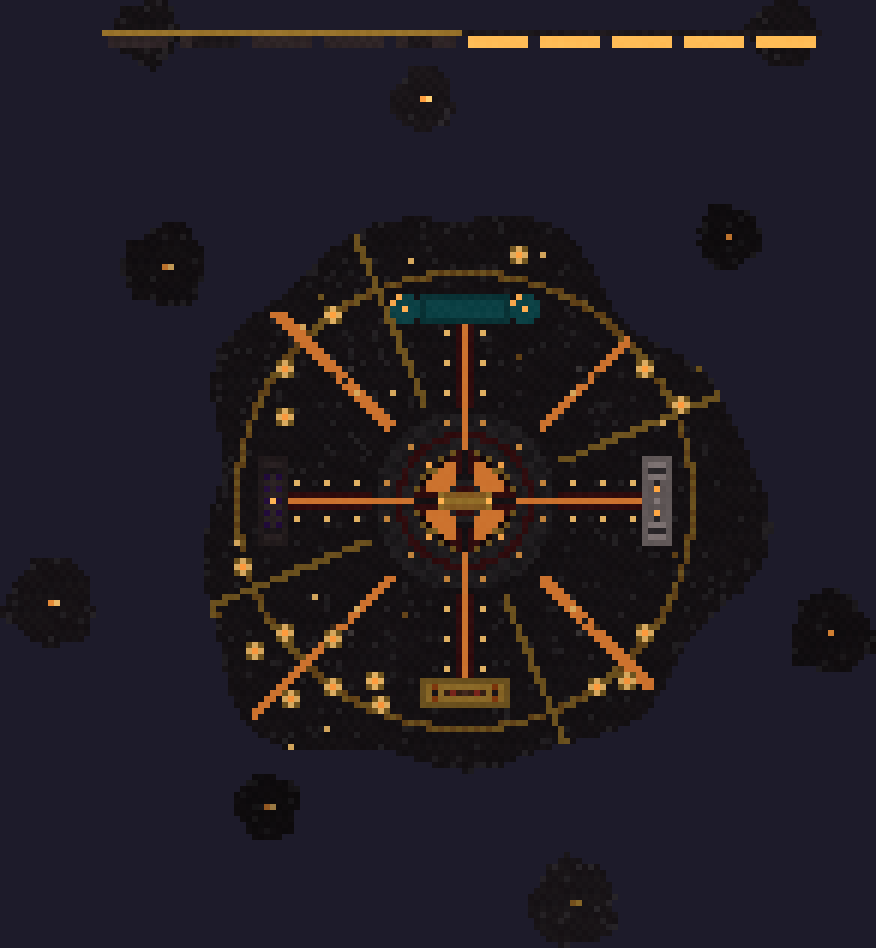
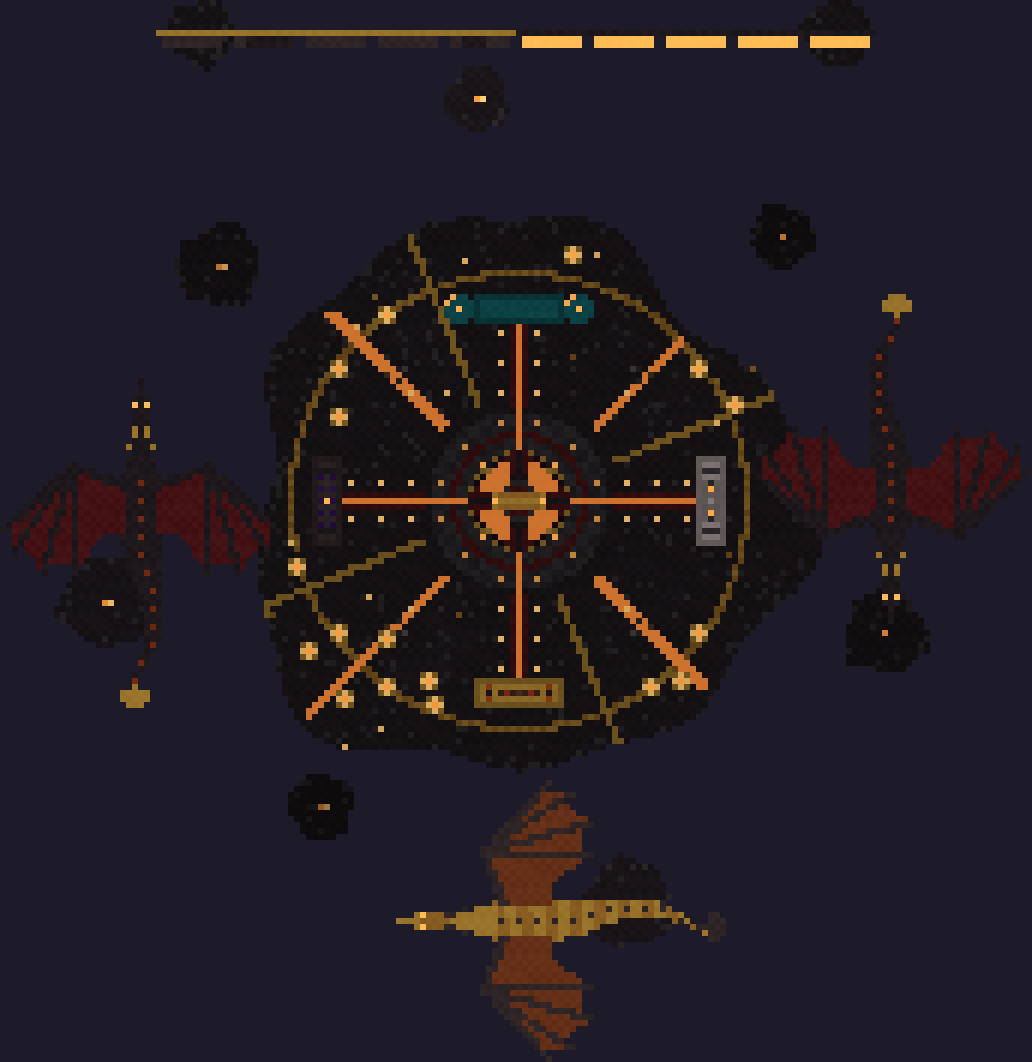
Add three fire-breathing dragon statues to the hub sky
Two blackstone dragons and a gold one glide around the island (east, south
and west, clear of the BLACKFORGE sign). They are sculpted from a smooth
shape so they look right at any heading, and take turns breathing a cone of
fire (flames, glowing dust, smoke, blaze/growl sounds) every 11 seconds.
An existing hub gets them pasted in once (hub-dragons-v1 marker).

diff --git a/plugins-src/AlloyCore/src/main/java/net/alloymc/core/hub/Dragons.java b/plugins-src/AlloyCore/src/main/java/net/alloymc/core/hub/Dragons.java
@@ -1,0 +1,198 @@
+package net.alloymc.core.hub;
+
+import net.alloymc.core.build.Canvas;
+
+import java.util.List;
+
+import static net.alloymc.core.hub.HubLayout.Y;
+
+/**
+ * Three dragon statues gliding in the sky around the hub, sculpted from a smooth shape so they look right at any heading.
+ * The blocks are part of {@link HubBuilder}; the fire they breathe is particles played by {@link HubModule}.
+ *
+ * Shapes are written in dragon space: u points forward (towards the snout), v up, w out to the dragon's right.
+ */
+public final class Dragons {
+    private Dragons() {}
+
+    /** A dragon statue: body origin, heading in degrees (0 = +X, 90 = +Z) and whether it is cast in gold. */
+    public record Dragon(double ox, double oy, double oz, double heading, boolean gold) {
+        double cos() { return Math.cos(Math.toRadians(heading)); }
+        double sin() { return Math.sin(Math.toRadians(heading)); }
+
+        /** World position of the open mouth, where the fire comes from. */
+        public double[] mouth() { return toWorld(MOUTH_U, MOUTH_V, 0); }
+
+        /** Unit direction of the fire: straight ahead and angled down. */
+        public double[] breath() {
+            double p = Math.toRadians(BREATH_PITCH);
+            return new double[]{cos() * Math.cos(p), -Math.sin(p), sin() * Math.cos(p)};
+        }
+
+        double[] toWorld(double u, double v, double w) {
+            return new double[]{ox + u * cos() - w * sin(), oy + v, oz + u * sin() + w * cos()};
+        }
+    }
+
+    /** Circling the island anticlockwise, side-on to spawn, clear of the BLACKFORGE sign in the north. */
+    public static final List<Dragon> ALL = List.of(
+            new Dragon(62.5, Y + 27, 0.5, 90, false),      // east, flying south
+            new Dragon(0.5, Y + 34, 70.5, 180, true),      // south, over the arcade gate, flying west
+            new Dragon(-62.5, Y + 25, 0.5, 270, false));   // west, flying north
+
+    static final double MOUTH_U = 19.5, MOUTH_V = 4.8, BREATH_PITCH = 24;
+
+    /** Just the dragons, for pasting into a hub that was built before they existed. */
+    public static Canvas build() {
+        Canvas c = new Canvas();
+        addTo(c);
+        return c;
+    }
+
+    static void addTo(Canvas c) {
+        for (Dragon d : ALL) sculpt(c, d);
+    }
+
+    private static void sculpt(Canvas c, Dragon d) {
+        int r = 42;
+        int bx = (int) Math.floor(d.ox), bz = (int) Math.floor(d.oz), by = (int) Math.floor(d.oy);
+        for (int x = bx - r; x <= bx + r; x++)
+            for (int z = bz - r; z <= bz + r; z++) {
+                double px = x + 0.5 - d.ox, pz = z + 0.5 - d.oz;
+                double u = px * d.cos() + pz * d.sin(), w = -px * d.sin() + pz * d.cos();
+                if (u < -34 || u > 22 || Math.abs(w) > 24) continue;
+                for (int y = by - 9; y <= by + 16; y++) {
+                    String b = block(u, y + 0.5 - d.oy, w, d.gold);
+                    if (b != null && !c.isSet(x, y, z)) c.set(x, y, z, b);
+                }
+            }
+    }
+
+    // ------------------------------------------------------------------ shape
+
+    private static String block(double u, double v, double w, boolean gold) {
+        String hide = gold ? "minecraft:gold_block" : "minecraft:polished_blackstone";
+        String hide2 = gold ? "minecraft:raw_gold_block" : "minecraft:blackstone";
+        String belly = gold ? "minecraft:yellow_terracotta" : "minecraft:gilded_blackstone";
+        String bone = gold ? "minecraft:netherite_block" : "minecraft:polished_blackstone_bricks";
+        String skin = gold ? "minecraft:orange_terracotta" : "minecraft:red_nether_bricks";
+        String horn = gold ? "minecraft:netherite_block" : "minecraft:gold_block";
+        String ridge = gold ? "minecraft:netherite_block" : "minecraft:magma_block";
+
+        // eyes and the fire glowing in the open mouth
+        if (dist(u, v, Math.abs(w), 15.6, 6.9, 1.35) < 0.75) return "minecraft:shroomlight";
+        if (dist(u, v, w, 17.2, 5.0, 0) < 0.8) return "minecraft:shroomlight";
+
+        // head, snout, open jaw, horns
+        if (ell(u - 14, v - 6.2, w, 2.8, 1.9, 1.7)) return v > 7.3 ? hide2 : hide;
+        if (capsule(u, v, w, 15, 6.4, 0, 19.8, 5.9, 0, 1.25, 0.85)) return hide;
+        if (capsule(u, v, w, 14.4, 5.0, 0, 19.2, 3.7, 0, 0.85, 0.6)) return belly;
+        if (capsule(u, v, Math.abs(w), 13, 7.4, 1.0, 9.0, 9.6, 1.9, 0.6, 0.3)) return horn;
+
+        // neck
+        if (capsule(u, v, w, 4.5, 1.2, 0, 12.5, 5.6, 0, 2.2, 1.6)) return hide;
+
+        // legs tucked under, gold-tipped claws
+        double aw = Math.abs(w);
+        if (capsule(u, v, aw, 2, -1.2, 2.2, 4.5, -3.8, 2.5, 0.95, 0.7)) return hide2;
+        if (capsule(u, v, aw, 4.5, -3.8, 2.5, 6, -4.3, 2.5, 0.55, 0.4)) return horn;
+        if (capsule(u, v, aw, -6, -1.0, 2.5, -4, -4.5, 2.8, 1.15, 0.85)) return hide2;
+        if (capsule(u, v, aw, -4, -4.5, 2.8, -0.5, -5.4, 2.8, 0.8, 0.55)) return hide2;
+        if (capsule(u, v, aw, -0.5, -5.4, 2.8, 1.2, -5.6, 2.8, 0.5, 0.4)) return horn;
+
+        // body and tail along a swaying spine, with a ridge of spikes and a spade on the tail
+        if (u >= -31 && u <= 6) {
+            double cv = spineV(u), cw = spineW(u), rad = radius(u);
+            double dv = v - cv, dw = w - cw;
+            if (dv * dv + dw * dw <= rad * rad) return dv < -rad * 0.45 ? belly : ((int) Math.floor(u * 0.5) % 2 == 0 ? hide : hide2);
+            if (Math.abs(dw) < 0.55 && dv > rad - 0.4 && dv < rad + 0.6 + rad * 0.3 && Math.floorMod((int) Math.floor(u), 3) == 0) return ridge;
+        }
+        if (u < -29.5 && u > -35) {
+            double t = (u + 35) / 5.5;                       // 0 at the spade tip, 1 where it meets the tail
+            double half = 2.6 * Math.sin(Math.PI * Math.min(1, t * 1.15)) * (t < 0.85 ? 1 : (1 - t) / 0.15);
+            if (Math.abs(w - spineW(-30)) <= half && Math.abs(v - spineV(-30)) <= 0.55) return horn;
+        }
+
+        // wings
+        double a = aw - 2.4;
+        if (a >= 0 && a <= 21) {
+            double vw = wingV(a), le = leadingEdge(a);
+            if (u <= le + 0.3 && u >= le - 1.3 && Math.abs(v - vw) <= 1.0) return bone;                  // arm along the front
+            if (Math.abs(v - vw) <= 0.6) {
+                for (double[] f : FINGERS)
+                    if (segDist(a, u, WRIST_A, leadingEdge(WRIST_A), f[0], f[1]) < 0.62) return bone;    // fingers
+                if (u <= le && u >= trailingEdge(a)) return skin;                                         // membrane
+            }
+        }
+        return null;
+    }
+
+    private static double spineV(double u) {
+        if (u >= -4) return 0.15 * (u + 4) * 0.2;
+        double t = (-4 - u) / 27;                           // 0 at the hips, 1 at the tail tip
+        return -4.2 * Math.sin(Math.PI * 0.6 * t) + 2.4 * t * t;
+    }
+
+    private static double spineW(double u) {
+        if (u >= -6) return 0;
+        double t = (-6 - u) / 25;
+        return 4.5 * Math.sin(Math.PI * 1.15 * t) * t;
+    }
+
+    private static double radius(double u) {
+        if (u > 3) return 3.1 - (u - 3) * 0.3;
+        if (u >= -7) return 3.2;
+        double t = (u + 31) / 24;                           // 0 at the tail tip, 1 at the hips
+        return 0.55 + 2.65 * Math.pow(Math.max(0, t), 1.25);
+    }
+
+    private static final double WRIST_A = 9;
+    /** Finger tips in (out from the shoulder, along the body), the scalloped back edge runs between them. */
+    private static final double[][] FINGERS = {{8.5, -12}, {14, -12.5}, {18.8, -8.5}};
+    private static final double[][] TRAILING = {{0, -5}, {8.5, -12}, {14, -12.5}, {18.8, -8.5}, {21, -3.6}};
+
+    private static double wingV(double a) {
+        return 2.0 + a * 0.24 + (a > WRIST_A ? (a - WRIST_A) * 0.22 : 0);
+    }
+
+    private static double leadingEdge(double a) {
+        return a < WRIST_A ? 3 + a * 0.35 : 3 + WRIST_A * 0.35 - (a - WRIST_A) * 0.92;
+    }
+
+    private static double trailingEdge(double a) {
+        for (int i = 0; i + 1 < TRAILING.length; i++) {
+            double[] p = TRAILING[i], q = TRAILING[i + 1];
+            if (a >= p[0] && a <= q[0]) {
+                double t = (a - p[0]) / (q[0] - p[0]);
+                return p[1] + (q[1] - p[1]) * t + 2.2 * Math.sin(Math.PI * t);   // each scallop bows towards the arm
+            }
+        }
+        return Double.MAX_VALUE;
+    }
+
+    // ------------------------------------------------------------------ geometry
+
+    private static double dist(double u, double v, double w, double cu, double cv, double cw) {
+        return Math.sqrt((u - cu) * (u - cu) + (v - cv) * (v - cv) + (w - cw) * (w - cw));
+    }
+
+    private static boolean ell(double du, double dv, double dw, double ru, double rv, double rw) {
+        return du * du / (ru * ru) + dv * dv / (rv * rv) + dw * dw / (rw * rw) <= 1;
+    }
+
+    /** Tapered capsule from a (radius ra) to b (radius rb). */
+    private static boolean capsule(double u, double v, double w, double au, double av, double aw,
+                                   double bu, double bv, double bw, double ra, double rb) {
+        double eu = bu - au, ev = bv - av, ew = bw - aw;
+        double t = ((u - au) * eu + (v - av) * ev + (w - aw) * ew) / (eu * eu + ev * ev + ew * ew);
+        t = Math.max(0, Math.min(1, t));
+        double r = ra + (rb - ra) * t;
+        return dist(u, v, w, au + eu * t, av + ev * t, aw + ew * t) <= r;
+    }
+
+    private static double segDist(double x, double y, double ax, double ay, double bx, double by) {
+        double ex = bx - ax, ey = by - ay;
+        double t = Math.max(0, Math.min(1, ((x - ax) * ex + (y - ay) * ey) / (ex * ex + ey * ey)));
+        return Math.hypot(x - ax - ex * t, y - ay - ey * t);
+    }
+}

diff --git a/plugins-src/AlloyCore/src/main/java/net/alloymc/core/hub/HubModule.java b/plugins-src/AlloyCore/src/main/java/net/alloymc/core/hub/HubModule.java
@@ -58,10 +58,14 @@ public final class HubModule implements Listener {
         // keep the whole hub loaded: holograms survive, lava keeps flowing, first joins are instant
         for (int cx = -6; cx <= 5; cx++) for (int cz = -6; cz <= 5; cz++) world.addPluginChunkTicket(cx, cz, plugin);
         if (!new File(plugin.getDataFolder(), "hub-built").exists()) build(Bukkit.getConsoleSender());
-        else if (!new File(plugin.getDataFolder(), "hub-biome-v1").exists()) applyBiome();
+        else {
+            if (!new File(plugin.getDataFolder(), "hub-biome-v1").exists()) applyBiome();
+            if (!new File(plugin.getDataFolder(), "hub-dragons-v1").exists()) addDragons();
+        }
         Bukkit.getScheduler().runTaskLater(plugin, this::spawnHolograms, 40L);
         Bukkit.getScheduler().runTaskTimer(plugin, this::refresh, 60L, 40L);
         Bukkit.getScheduler().runTaskTimer(plugin, this::ambient, 20L, 10L);
+        Bukkit.getScheduler().runTaskTimer(plugin, this::dragonFire, 40L, 2L);
     }
 
     private void registerJoinCommand() {
@@ -102,6 +106,7 @@ public final class HubModule implements Listener {
     private void pasteHub(CommandSender who, net.alloymc.core.build.Canvas canvas, long t) {
         Paster.paste(plugin, world, canvas, 6000, () -> {
             try { new File(plugin.getDataFolder(), "hub-built").createNewFile(); } catch (Exception ignored) { }
+            try { new File(plugin.getDataFolder(), "hub-dragons-v1").createNewFile(); } catch (Exception ignored) { }
             applyBiome();
             who.sendMessage(Component.text("Hub built: " + canvas.size() + " blocks in " + (System.currentTimeMillis() - t) / 1000 + "s"));
             for (Player p : Bukkit.getOnlinePlayers()) toSpawn(p);
@@ -364,5 +369,57 @@ public final class HubModule implements Listener {
         }
         for (HubLayout.Gate g : HubLayout.GATES)
             world.spawnParticle(Particle.PORTAL, g.cx() + 0.5, HubLayout.Y + 5, g.cz() + 0.5, 10, g.alongX() ? 2 : 0.3, 2.5, g.alongX() ? 0.3 : 2, 0.2);
+    }
+
+    // ------------------------------------------------------------------ dragons
+
+    /** Pastes the sky dragons into a hub that was built before they were added. */
+    private void addDragons() {
+        Paster.paste(plugin, world, Dragons.build(), 6000, () -> {
+            try { new File(plugin.getDataFolder(), "hub-dragons-v1").createNewFile(); } catch (Exception ignored) { }
+            plugin.getLogger().info("Hub dragons added");
+        });
+    }
+
+    private static final int BREATH_PERIOD = 220, BREATH_LENGTH = 60;
+    private static final Particle.DustTransition[] FIRE_DUST = {
+            new Particle.DustTransition(Color.fromRGB(255, 240, 120), Color.fromRGB(255, 120, 20), 3.2f),
+            new Particle.DustTransition(Color.fromRGB(255, 150, 30), Color.fromRGB(200, 30, 10), 3.8f)};
+    private int fireTick;
+
+    /** Each dragon breathes a cone of fire for 3 seconds out of every 11, staggered so they take turns. */
+    private void dragonFire() {
+        fireTick += 2;
+        if (world.getPlayers().isEmpty()) return;
+        for (int i = 0; i < Dragons.ALL.size(); i++) {
+            Dragons.Dragon d = Dragons.ALL.get(i);
+            int t = Math.floorMod(fireTick - i * BREATH_PERIOD / Dragons.ALL.size(), BREATH_PERIOD);
+            if (t >= BREATH_LENGTH) continue;
+            double[] m = d.mouth(), f = d.breath();
+            if (t == 0) {
+                world.playSound(new Location(world, m[0], m[1], m[2]), Sound.ENTITY_BLAZE_SHOOT, 4f, 0.5f);
+                if ((fireTick / BREATH_PERIOD + i) % 3 == 0)
+                    world.playSound(new Location(world, m[0], m[1], m[2]), Sound.ENTITY_ENDER_DRAGON_GROWL, 3f, 0.9f);
+            } else if (t % 10 == 0) {
+                world.playSound(new Location(world, m[0], m[1], m[2]), Sound.ITEM_FIRECHARGE_USE, 3f, 0.6f);
+            }
+            double ramp = Math.min(1, Math.min(t, BREATH_LENGTH - t) / 10.0);   // flare up, then die down
+            // fast flames streaming out of the mouth
+            for (int k = 0; k < 10 * ramp + 2; k++) {
+                double dx = f[0] + (Math.random() - 0.5) * 0.25, dy = f[1] + (Math.random() - 0.5) * 0.25, dz = f[2] + (Math.random() - 0.5) * 0.25;
+                world.spawnParticle(Particle.FLAME, m[0], m[1], m[2], 0, dx, dy, dz, 0.55 + Math.random() * 0.35, null, true);
+            }
+            // a glowing cone of fire that widens away from the mouth, so it reads from across the island
+            for (int k = 0; k < 14 * ramp; k++) {
+                double s = Math.random() * 11 * ramp, spread = 0.3 + s * 0.22;
+                world.spawnParticle(Particle.DUST_COLOR_TRANSITION, m[0] + f[0] * s, m[1] + f[1] * s, m[2] + f[2] * s, 1,
+                        spread, spread, spread, 0, FIRE_DUST[s < 4 ? 0 : 1], true);
+            }
+            if (Math.random() < 0.5) {
+                double s = 8 + Math.random() * 4;
+                world.spawnParticle(Particle.LARGE_SMOKE, m[0] + f[0] * s, m[1] + f[1] * s, m[2] + f[2] * s, 2, 1, 1, 1, 0.02, null, true);
+            }
+            if (Math.random() < 0.3) world.spawnParticle(Particle.LAVA, m[0], m[1], m[2], 1, 0.3, 0.3, 0.3, 0, null, true);
+        }
     }
 }

diff --git a/plugins-src/AlloyCore/src/main/java/net/alloymc/core/build/PreviewMain.java b/plugins-src/AlloyCore/src/main/java/net/alloymc/core/build/PreviewMain.java
@@ -27,6 +27,9 @@ public final class PreviewMain {
         pov(hub, new File(out, "hub_view_from_arcade_gate.png"), 0.5, 103.6, 40.5, 180, -4, 1280, 720);
         pov(hub, new File(out, "hub_view_side.png"), 44.5, 112, 30.5, 125, -14, 1280, 720);
         topDown(hub, new File(out, "hub_top.png"), 6);
+        pov(hub, new File(out, "hub_dragon_east.png"), 20.5, 112, -20.5, -64, -18, 1280, 720);
+        pov(hub, new File(out, "hub_dragon_south.png"), 0.5, 105, 20.5, 0, -31, 1280, 720);
+        pov(hub, new File(out, "hub_aerial.png"), 0.5, 190, 150.5, 180, 30, 1600, 900);
         night = false;
         Canvas sv = net.alloymc.core.survival.SpawnBuilder.spawn();
         System.out.println("survival spawn blocks: " + sv.size());

diff --git a/plugins-src/AlloyCore/src/main/java/net/alloymc/core/hub/HubBuilder.java b/plugins-src/AlloyCore/src/main/java/net/alloymc/core/hub/HubBuilder.java
@@ -28,6 +28,7 @@ public final class HubBuilder {
         b.floatingIslands();
         b.goldInlay();
         b.lettering();
+        Dragons.addTo(b.c);
         return b.c;
     }
 
